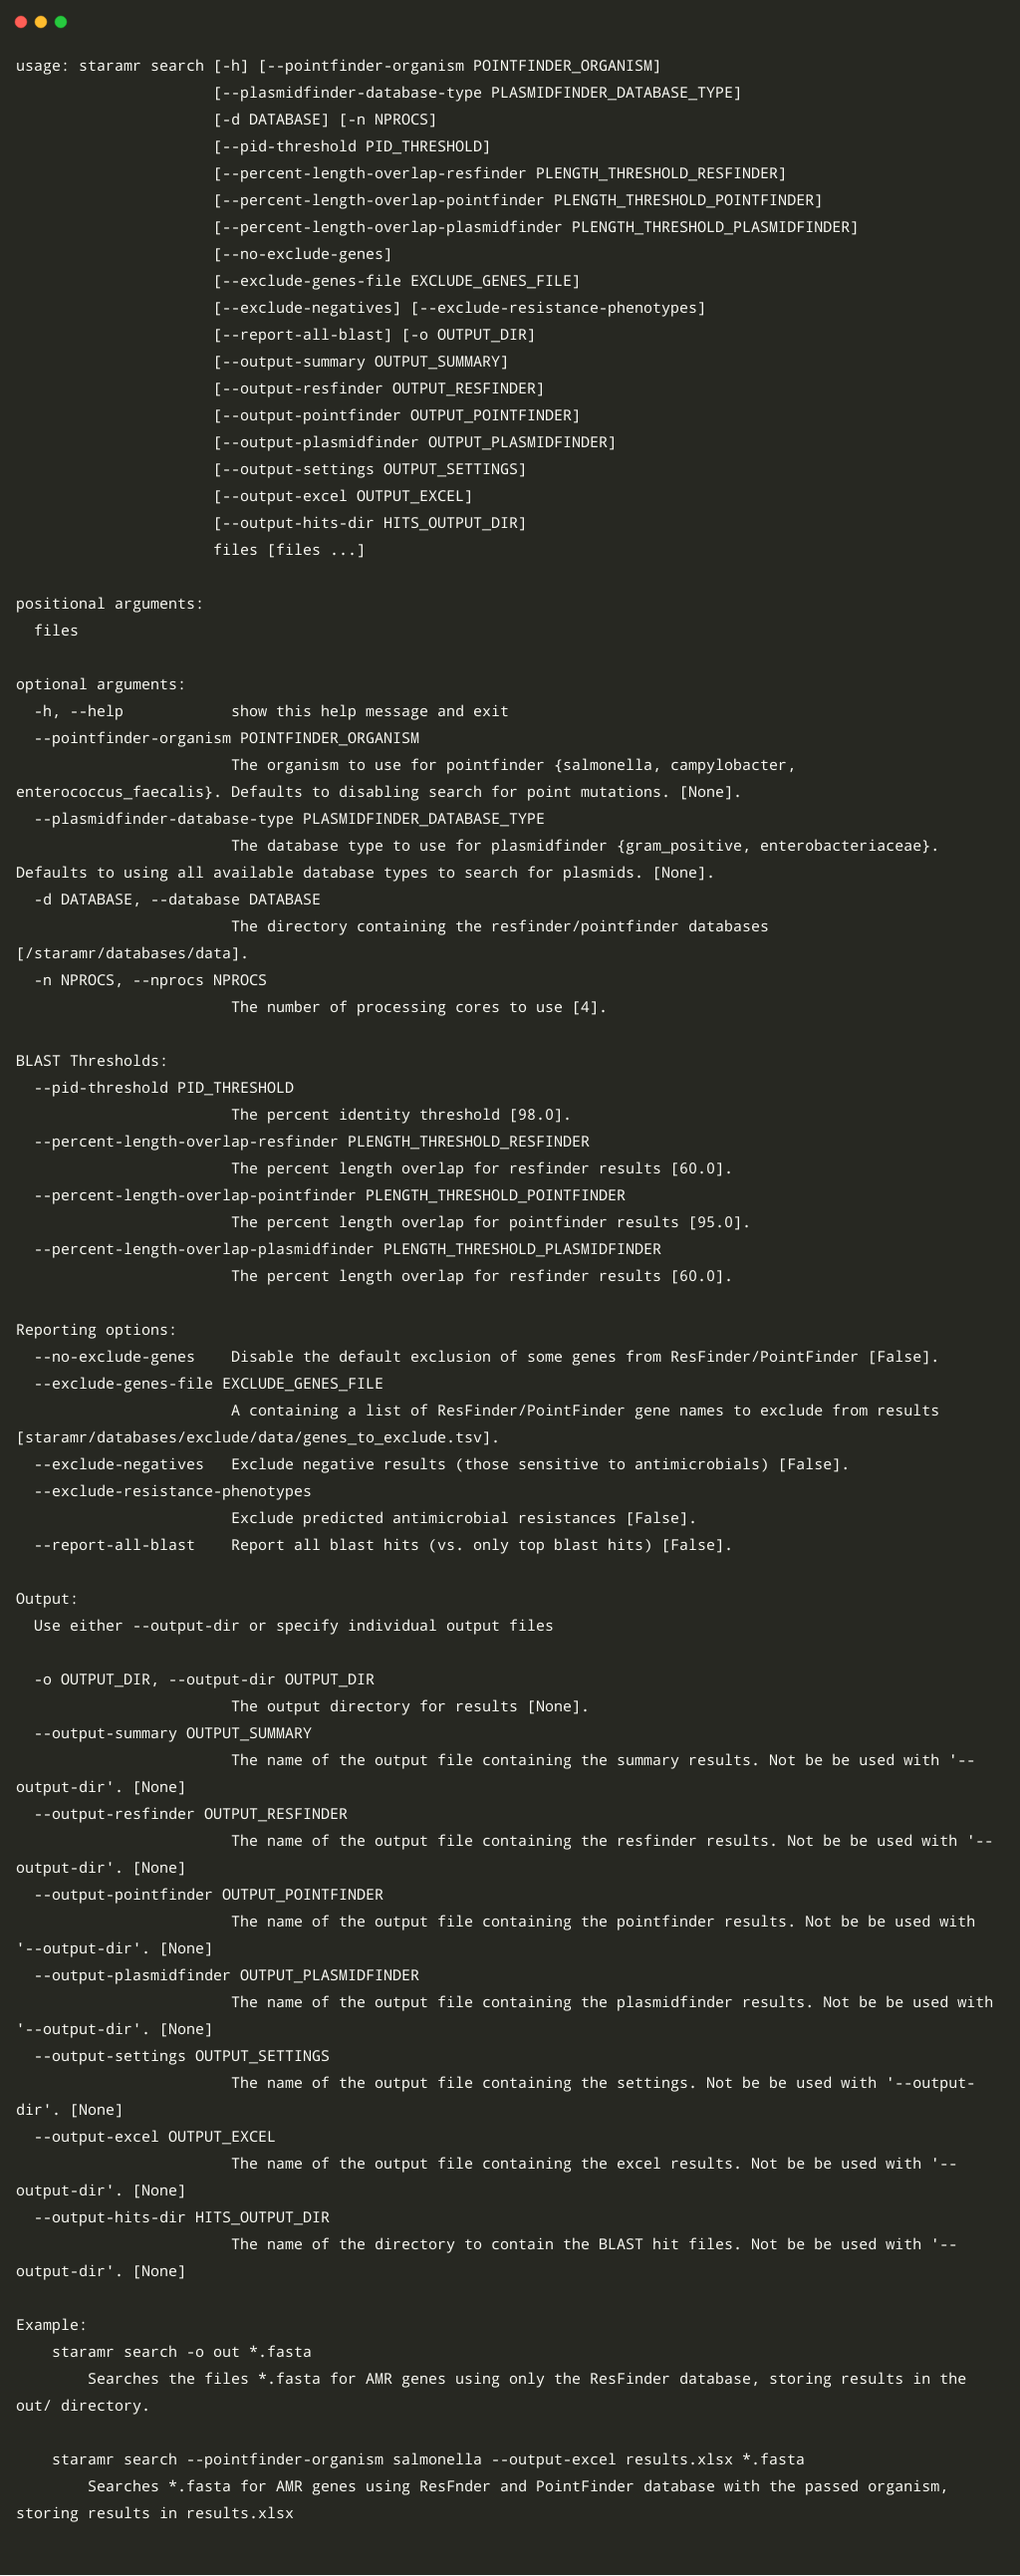
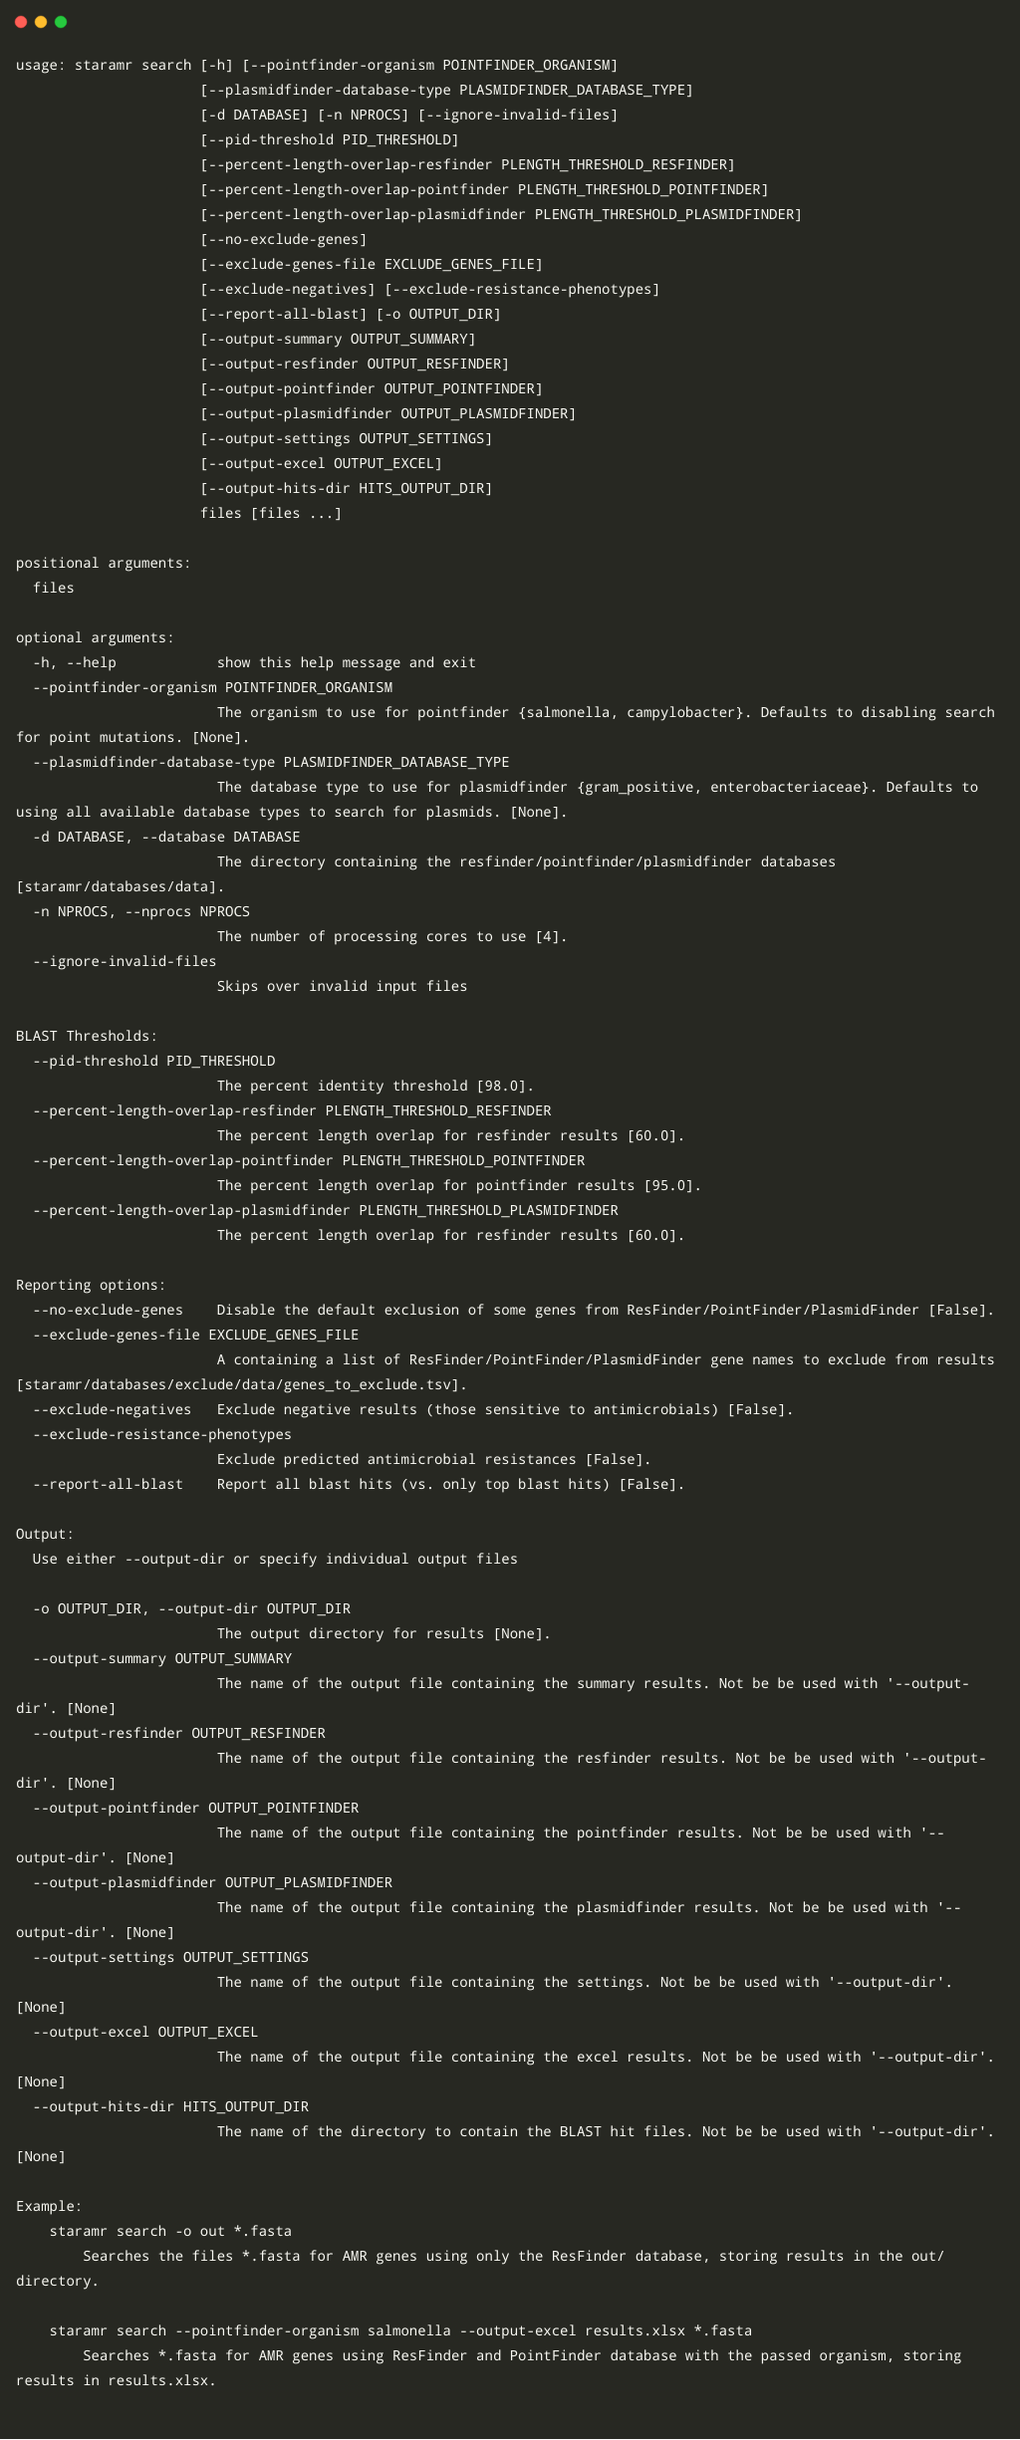
Updated README and verbitage to include PlasmidFinder

diff --git a/staramr/subcommand/Search.py b/staramr/subcommand/Search.py
@@ -67,13 +67,13 @@ class Search(SubCommand):
                                     PlasmidfinderBlastDatabase.get_available_databases()) + '}. Defaults to using all available database types to search for plasmids. [None].',
                                 default=None, required=False)
         arg_parser.add_argument('-d', '--database', action='store', dest='database', type=str,
-                                help='The directory containing the resfinder/pointfinder databases [' + self._default_database_dir + '].',
+                                help='The directory containing the resfinder/pointfinder/plasmidfinder databases [' + self._default_database_dir + '].',
                                 default=self._default_database_dir, required=False)
         arg_parser.add_argument('-n', '--nprocs', action='store', dest='nprocs', type=int,
                                 help='The number of processing cores to use [' + str(cpu_count) + '].',
                                 default=cpu_count, required=False)
         arg_parser.add_argument('--ignore-invalid-files', action='store_true', dest='ignore_valid_files',
-                                help='Skip over invalid input files', required=False)
+                                help='Skips over invalid input files', required=False)
 
         threshold_group = arg_parser.add_argument_group('BLAST Thresholds')
         threshold_group.add_argument('--pid-threshold', action='store', dest='pid_threshold', type=float,
@@ -93,10 +93,10 @@ class Search(SubCommand):
 
         report_group = arg_parser.add_argument_group('Reporting options')
         report_group.add_argument('--no-exclude-genes', action='store_true', dest='no_exclude_genes',
-                                  help='Disable the default exclusion of some genes from ResFinder/PointFinder [False].',
+                                  help='Disable the default exclusion of some genes from ResFinder/PointFinder/PlasmidFinder [False].',
                                   required=False)
         report_group.add_argument('--exclude-genes-file', action='store', dest='exclude_genes_file',
-                                  help='A containing a list of ResFinder/PointFinder gene names to exclude from results [{}].'.format(
+                                  help='A containing a list of ResFinder/PointFinder/PlasmidFinder gene names to exclude from results [{}].'.format(
                                       ExcludeGenesList.get_default_exclude_file()),
                                   default=ExcludeGenesList.get_default_exclude_file(),
                                   required=False)

diff --git a/staramr/databases/AMRDatabasesManager.py b/staramr/databases/AMRDatabasesManager.py
@@ -6,7 +6,7 @@ from staramr.databases.BlastDatabaseRepositories import BlastDatabaseRepositorie
 logger = logging.getLogger('AMRDatabasesManager')
 
 """
-A Class used to manage interactions with default and updatable ResFinder/PointFinder database installations.
+A Class used to manage interactions with default and updatable ResFinder/PointFinder/PlasmidFinder database installations.
 """
 
 
@@ -20,7 +20,7 @@ class AMRDatabasesManager:
     def __init__(self, database_dir: str, sub_dirs: bool = False) -> None:
         """
         Builds a new AMRDatabasesManager with the passed directory.
-        :param database_dir: The directory containing the ResFinder/PointFinder databases.
+        :param database_dir: The directory containing the ResFinder/PointFinder/PlasmidFinder databases.
         :param sub_dirs: If True, assumes we are using subdirectories to store databases
                             and searching for stripped git directories.
         """
